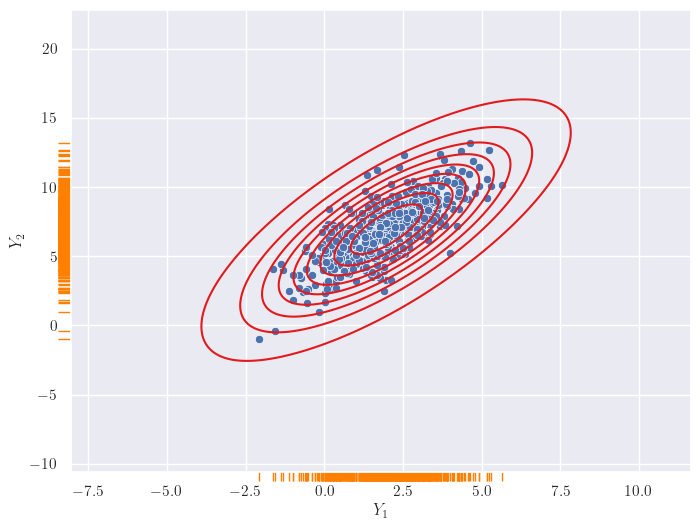
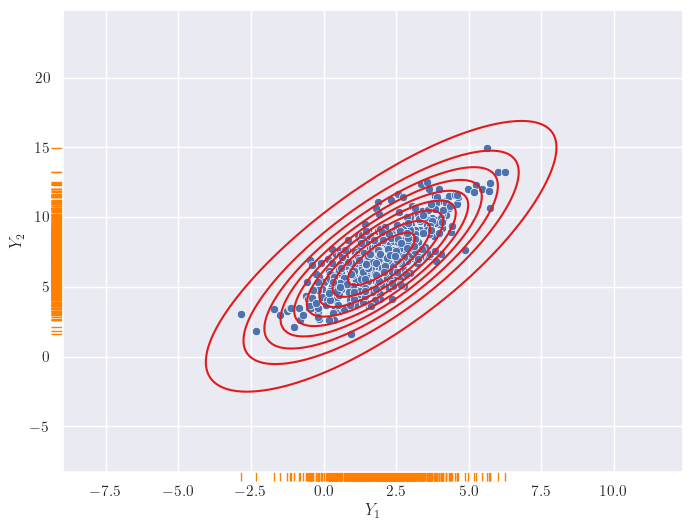
updates to  GPs

diff --git a/bayesopt_1_key_ideas_GPs.html b/bayesopt_1_key_ideas_GPs.html
@@ -480,11 +480,25 @@ Hopefully, all of this has whetted your appetite to learn more about the two cri
     
 </div>
 
-<p>A 2D Gaussian! In a hand-wavy way, this is the essence of a GP. We express uncertainties in outputs for a given input as a 1D Gaussian, and the joint distribution across outputs as a high-dimensional Gaussian. Actually, as we shall see in the next section, we just assume the latter and the former is a happy consequence of that.</p>
+<p>A 2D Gaussian! We have seen these before! It looks like if we express uncertainties in outputs for a given input as an 1D Gaussian, the joint distribution across outputs turns out to be a high-dimensional Gaussian. Actually, as we shall see in the next section, we just assume the latter and the former is a happy consequence of that.</p>
 
-<p>Since the coupling in the joint Gaussian distribution is controlled by the covariance matrix (like we saw earlier), we allow similarities in inputs decide its entries. Specifically, if \(k(x_i, x_j)\) denotes the similarity between \(x_i\) and \(x_j\), we let \(\Sigma_{ij} = k(x_i, x_j)\). This is a good way to precisely enforce smoothness.</p>
+<p>And, since the coupling in the joint Gaussian distribution is controlled by the covariance matrix, we allow similarities in inputs decide its entries. Specifically, if \(k(x_i, x_j)\) denotes the similarity between \(x_i\) and \(x_j\), we let \(\Sigma_{ij} = k(x_i, x_j)\). Controlling the covariance matrix is a great way to regulate the variation in one output wrt another, and letting input similarities decide entries in this matrix works out perfectly for us: it gives us a precise way to enforce smoothness.</p>
 
-<p>Can we visualize more than two output distributions - just to get a feel of what that might look like? This is doable with a different visualization (I saw this <a href="https://www.youtube.com/watch?v=92-98SYOdlY">here</a> first): we’ll stack the various \(Y_i\)s next to each other, with the gap between them decided by the corresponding \(x_i\)s, and for every set of values for these \(Y_i\)s, we’ll draw a line through them. This will give us an idea of how they vary relative to each other. This is shown below for three \(Y_i\)s.</p>
+<p>Can we visualize more than two output distributions? This is doable with a different visualization (I saw this <a href="https://www.youtube.com/watch?v=92-98SYOdlY">here</a> first): we’ll stack lines representing \(Y_i\)s next to each other, and for every set of values sampled from their joint distribution, we’ll draw a line through them. Let’s see what the above plot might look like in this form:</p>
+
+<!-- _includes/image.html -->
+<div class="image-wrapper">
+    
+        <img src="/assets/bayesopt/2D_variable_coupling.gif" alt="test" />
+    
+    
+        <p class="image-caption">A different representation of the joint distribution.</p>
+    
+</div>
+
+<p>The line currently shown corresponds to the current sample from the joint 2D Gaussian. Note the positive slope of the annimated line; this is because of the positive correlation between the \(Y_i\)s in the joint Gaussian.</p>
+
+<p>This gives us a way to visualize the behavior of more than just two \(Y_i\)s. And we’ll do exactly that next. But with a new twist: we’ll allow the gap between the vertical bars to be decided by the corresponding \(x_i\)s. This will give us an idea of the similarity of the inputs. Shown below for three \(Y_i\)s.</p>
 
 <!-- _includes/image.html -->
 <div class="image-wrapper">
@@ -510,9 +524,9 @@ Hopefully, all of this has whetted your appetite to learn more about the two cri
     
 </div>
 
-<p>This almost looks like a full-fledged function (the blue line)! Again, note how \(x_i\) that are close together, take on similar values. This makes the function appear smooth. What you are seeing here is a <em>distribution  of functions</em> as modeled by a GP. Sounds complex, but what we are really saying is that each line through \(Y_1-Y_{10}\) is a function,  and since we are seeing multiple functions above - because of the uncertainty of \(Y_i\)s - we are effectively looking at a distribution of functions.</p>
+<p>This almost looks like a full-fledged function! Again, note how \(x_i\) that are close together, take on similar values. This makes the function appear smooth. What you are seeing here is a <em>distribution  of functions</em> as modeled by a GP. Sounds complex, but what we are really saying is that each line through \(Y_1-Y_{10}\) is a function,  and since we are seeing multiple functions above - because of the uncertainty of \(Y_i\)s - we are effectively looking at a distribution of functions.</p>
 
-<p>Sticking with this visual metaphor, what does regression mean here? A training instance \((x_i, y_i)\) implies the corresponding variable \(Y_i\) is now fixed at the value of \(y_i\). Training data effectively <em>clamps</em> down the function at observations, leaving it to vary elsewhere. How much does the function “sway” depends on the kind of smoothness we have enforced. In the next plot, the clamped down points are shown in red.</p>
+<p>Sticking with this visual metaphor, what does regression mean here? A training instance \((x_i, y_i)\) implies the corresponding variable \(Y_i\) is now fixed at the value of \(y_i\). Training data effectively <em>clamps</em> down the function at observations, leaving it to vary elsewhere. In the next plot, the clamped down points are shown in red.</p>
 
 <!-- _includes/image.html -->
 <div class="image-wrapper">
@@ -523,6 +537,8 @@ Hopefully, all of this has whetted your appetite to learn more about the two cri
         <p class="image-caption">Training data clamps down the y values - shown with red circles.</p>
     
 </div>
+
+<p>How much does the function sway “elsewhere” - we’ll think of these as test locations - depends on (a) the degree/kind of smoothness we have enforced, and (b) how far a test input is from a training instance. In general, you might imagine that the effect of clamping reduces as you move away from the clamped points. There are exceptions to this, like if you wanted your smoothness to have some kind of periodicity (<a href="https://peterroelants.github.io/posts/gaussian-process-kernels/#Local-periodic-kernel">example</a>) - but this is a good mental model for now.</p>
 
 <p>The benefit to all this that when are predicting the output for an input, we end up predicting a <em>distribution</em> instead of a single value.  This is not as scary as it sounds: consider any vertical \(Y_i\) bar in the above plot, and think about the animated line tracing values on it. Shown below.</p>
 
@@ -557,7 +573,7 @@ Hopefully, all of this has whetted your appetite to learn more about the two cri
 
 \[Y \sim \mathcal{N}(\mu, \sigma^2)\]
 
-<p>Here, \(Y\) is a random variable that takes on output values across <em>different</em> inputs, where we assume exactly one “best-guess” output for an input, i.e.,  for an \(x_i\), we just have one specific \(y_i\), and \(Y \in \{y_i\}_{i=1}^N\). Such a \(y_i\) is known as a <a href="https://en.wikipedia.org/wiki/Point_estimation">point estimate</a>. This is also why the \(y_i\)s are in lower case - they are not random variables. This is how regression models are commonly used: you plug in an input and receive an output. Instead of a covariance matrix \(\Sigma\), I am using the standard notation for variance \(\sigma^2\), since this is a 1D Gaussian.</p>
+<p>Where, \(Y\) is a random variable that takes on output values across <em>different</em> inputs, where we assume exactly one “best-guess” output for an input, i.e.,  for an \(x_i\), we just have one specific \(y_i\), and \(Y \in \{y_i\}_{i=1}^N\). Such a \(y_i\) is known as a <a href="https://en.wikipedia.org/wiki/Point_estimation">point estimate</a>. This is also why the \(y_i\)s are in lower case - they are not random variables. This is how regression models are commonly used: you plug in an input and receive an output. Instead of a covariance matrix \(\Sigma\), I am using the standard notation for variance \(\sigma^2\), since this is a 1D Gaussian.</p>
 
 <p>So, what <em>are</em> we saying? We have one Gausian random variable dedicated to possible outputs for one given input. The <em>distributions</em> of the outputs together is a multivariate Gaussian, and it describes our current knowledge (or uncertainty) of the function. The extent of coupling between individual distributions is decided by the similarity in their inputs. Mathematically, this is what we <strong>ARE</strong> saying:</p>
 
@@ -645,6 +661,8 @@ Hopefully, all of this has whetted your appetite to learn more about the two cri
   <li>We used marginalization to say that its OK to think about a finite slice of the overall model as a Gaussian. The convenient form of marginalization helped here: we could just parameterize this finite distribution in a self-contained manner, while assuming that these parameters were plucked out of an infinitely larger parameter space.</li>
   <li>Then, we used conditioning wrt training data, on this marginal finite Gaussian distribution, to describe the test outputs.</li>
 </ul>
+
+<p>So, really, the central assumption here is that the output distributions are jointly Gaussian, with a covariance matrix that encodes input similarities. All other properties are consequences.</p>
 
 <hr style="height:1px;border-width:0;background-color:#EE2967" />
 <p><br /></p>
@@ -822,7 +840,7 @@ As before, let test data be \(X^* \in \mathbb{R}^{M \times d}\), \(Y^* \in \math
     
 </div>
 
-<p>This doesn’t show what the joint distribution is, but that the marginal output distributions per \(i\) are Gaussians, i.e., this points to the feasibility of the joint being a Gaussian. We have seen this before! Let’s bring up that plot.</p>
+<p>It looks like the marginal output distributions per \(i\) are Gaussians, which is what we would expect from the joint begin Gaussian. We have seen this before! Let’s bring up that plot.</p>
 
 <!-- _includes/image.html -->
 <div class="image-wrapper">
